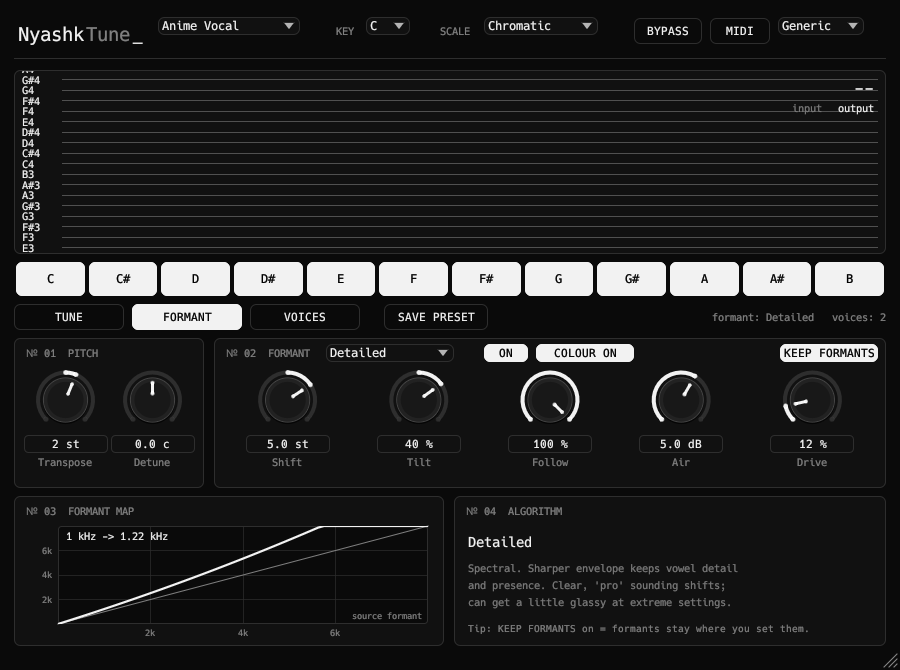
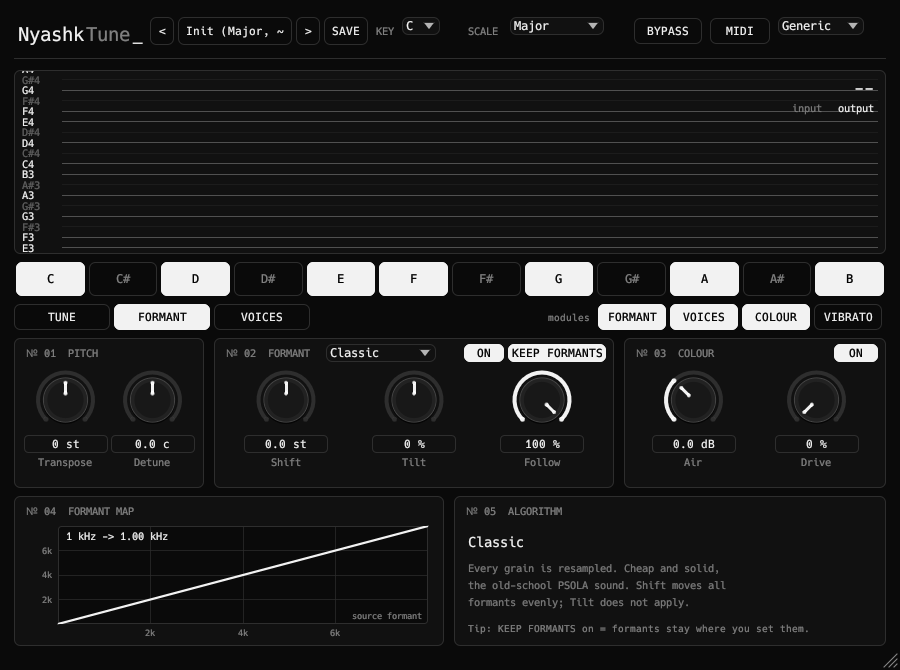
COLOUR as its own block on the FORMANT tab
Claude-Session: https://claude.ai/code/session_01EndxvcXZsUxUuBFyUHCgZr

diff --git a/plugins/nyashktune/src/editor.rs b/plugins/nyashktune/src/editor.rs
@@ -1202,26 +1202,29 @@ pub fn create(params: Arc<NyashkTuneParams>, meters: Arc<Meters>) -> Option<Box<
                     knob(ui, setter, &p.transpose, "Transpose", c[0], "", true);
                     knob(ui, setter, &p.fine, "Detune", c[1], "", true);
 
-                    let g2 = group(ui, 214.0, row1, 672.0, "02", "FORMANT");
-                    enum_combo(ui, setter, &p.fmode, "fmode", Rect::from_min_size(Pos2::new(g2.left() + 112.0, g2.top() + 6.0), Vec2::new(150.0, 20.0)));
-                    if pill(ui, Rect::from_min_size(Pos2::new(g2.left() + 270.0, g2.top() + 6.0), Vec2::new(44.0, 18.0)), "ON", p.formant_on.value()) {
+                    let g2 = group(ui, 214.0, row1, 400.0, "02", "FORMANT");
+                    enum_combo(ui, setter, &p.fmode, "fmode", Rect::from_min_size(Pos2::new(g2.left() + 112.0, g2.top() + 6.0), Vec2::new(124.0, 20.0)));
+                    if pill(ui, Rect::from_min_size(Pos2::new(g2.left() + 244.0, g2.top() + 6.0), Vec2::new(40.0, 18.0)), "ON", p.formant_on.value()) {
                         set_b(setter, &p.formant_on, !p.formant_on.value());
-                    }
-                    if pill(ui, Rect::from_min_size(Pos2::new(g2.left() + 322.0, g2.top() + 6.0), Vec2::new(98.0, 18.0)), "COLOUR ON", p.colour_on.value()) {
-                        set_b(setter, &p.colour_on, !p.colour_on.value());
                     }
                     if pill(ui, Rect::from_min_size(Pos2::new(g2.right() - 106.0, g2.top() + 6.0), Vec2::new(98.0, 18.0)), "KEEP FORMANTS", p.keep_formants.value()) {
                         set_b(setter, &p.keep_formants, !p.keep_formants.value());
                     }
-                    let c = cells(g2, 5);
+                    let c = cells(g2, 3);
                     knob(ui, setter, &p.formant, "Shift", c[0], "Moves the vocal-tract resonances (gender / size) independently of pitch.", true);
                     knob(ui, setter, &p.ftilt, "Tilt", c[1], "Spectral algorithms: + moves the high formants more than the low ones (brighter, smaller), - the opposite.", true);
                     knob(ui, setter, &p.ffollow, "Follow", c[2], "With KEEP FORMANTS off: how much the formants follow the pitch correction (100 % = like a varispeed).", false);
-                    knob(ui, setter, &p.air, "Air", c[3], "High shelf (7 kHz) on the processed voice. Brightness / breath.", false);
-                    knob(ui, setter, &p.drive, "Drive", c[4], "Soft saturation of the processed voice.", false);
+
+                    let g3 = group(ui, 624.0, row1, 262.0, "03", "COLOUR");
+                    if pill(ui, Rect::from_min_size(Pos2::new(g3.right() - 52.0, g3.top() + 6.0), Vec2::new(44.0, 18.0)), "ON", p.colour_on.value()) {
+                        set_b(setter, &p.colour_on, !p.colour_on.value());
+                    }
+                    let c = cells(g3, 2);
+                    knob(ui, setter, &p.air, "Air", c[0], "High shelf (7 kHz) on the processed voice: brightness / breath.", false);
+                    knob(ui, setter, &p.drive, "Drive", c[1], "Soft saturation of the processed voice: warmth and grit.", false);
 
                     // warp curve: where a formant of the source ends up
-                    let g3 = group(ui, 14.0, row2, 430.0, "03", "FORMANT MAP");
+                    let g3 = group(ui, 14.0, row2, 430.0, "04", "FORMANT MAP");
                     let plot = Rect::from_min_max(Pos2::new(g3.left() + 44.0, g3.top() + 30.0), Pos2::new(g3.right() - 16.0, g3.bottom() - 22.0));
                     painter.rect_filled(plot, CornerRadius::same(3), BG);
                     painter.rect_stroke(plot, CornerRadius::same(3), Stroke::new(1.0_f32, LINE), StrokeKind::Inside);
@@ -1252,7 +1255,7 @@ pub fn create(params: Arc<NyashkTuneParams>, meters: Arc<Meters>) -> Option<Box<
                     painter.text(Pos2::new(g3.left() + 12.0, g3.top() + 20.0 + 0.0), Align2::LEFT_CENTER, "", mono(9.0), DIM);
                     painter.text(Pos2::new(plot.right() - 6.0, plot.bottom() - 8.0), Align2::RIGHT_CENTER, "source formant", mono(8.5), DIM);
 
-                    let g4 = group(ui, 454.0, row2, 432.0, "04", "ALGORITHM");
+                    let g4 = group(ui, 454.0, row2, 432.0, "05", "ALGORITHM");
                     let (head, body): (&str, &[&str]) = match mode {
                         FormantAlgo::Classic => ("Classic", &["Every grain is resampled. Cheap and solid,", "the old-school PSOLA sound. Shift moves all", "formants evenly; Tilt does not apply."]),
                         FormantAlgo::Smooth => ("Smooth", &["Spectral. A broad envelope is moved, the fine", "structure stays. Most natural, hardest to break,", "good for subtle gender / size changes."]),
